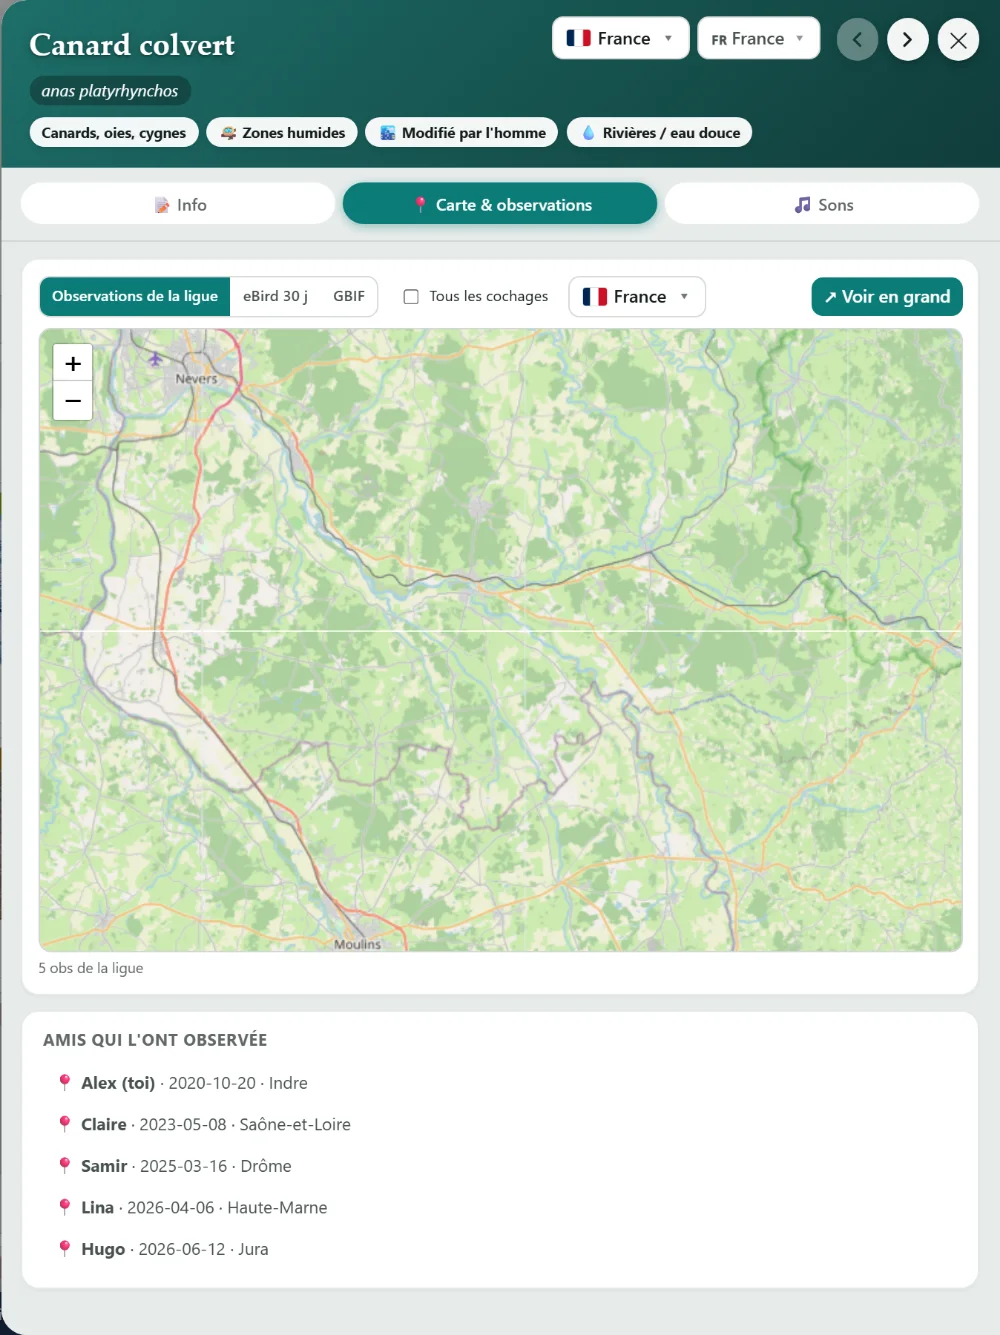
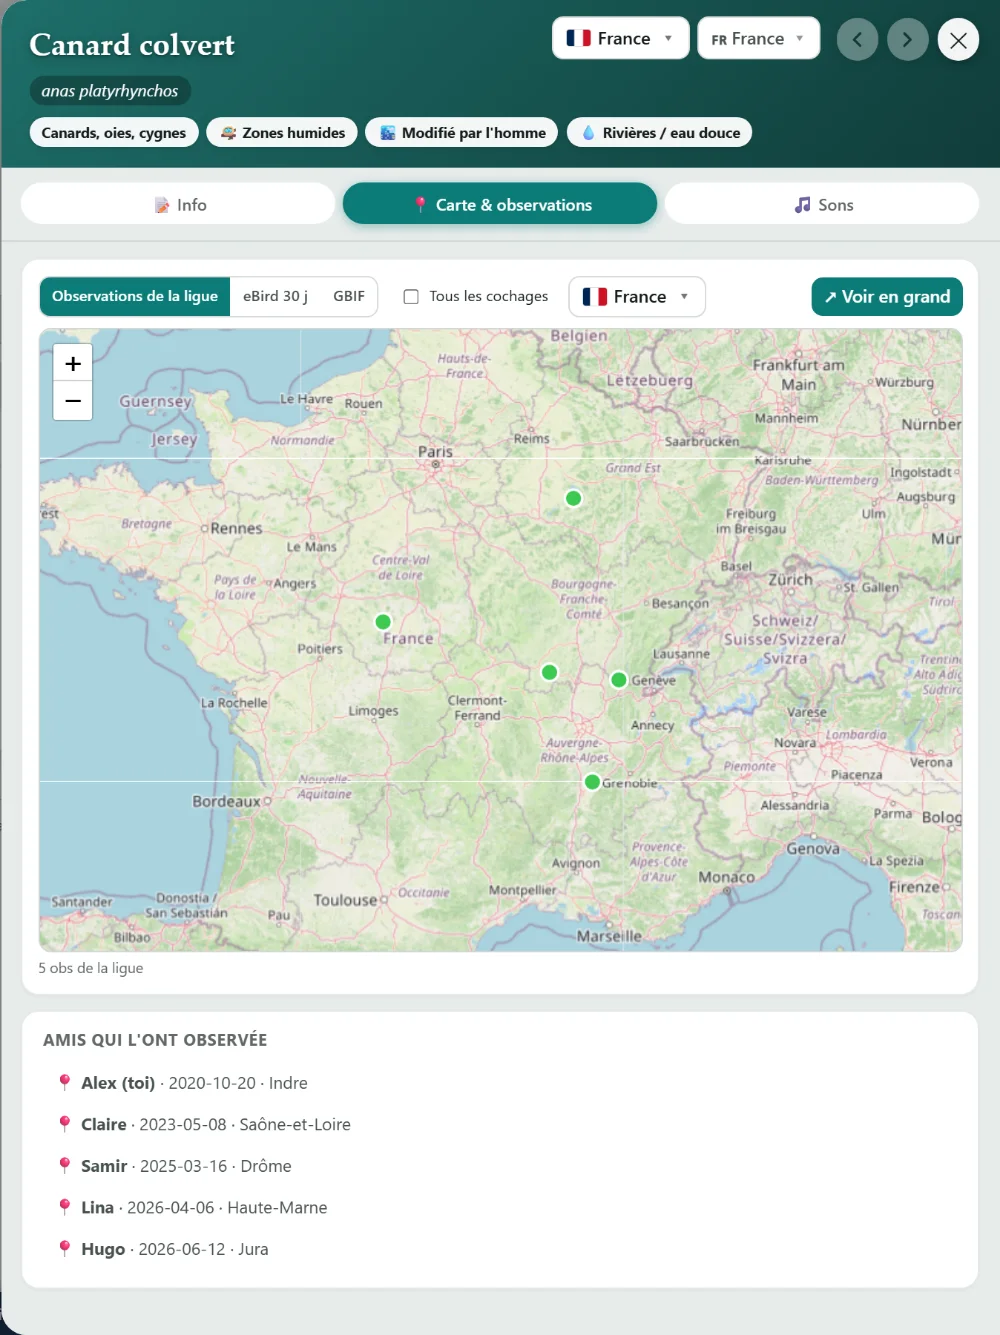
L'Ornitheque : classement et trophees retires, fil et tchat en petit, carte de fiche refaite
La carte de la fiche etait mal centree et vide (creee pendant que l'onglet etait cache) :
recapturee apres recalage, mode observations de la ligue, cinq points.

diff --git a/ornitheque.html b/ornitheque.html
@@ -121,7 +121,7 @@
       </div>
     </div>
 
-    <div class="plates--pair">
+    <div class="plates--pair plates--petit">
       <figure class="plate">
         <a href="projet-ornitheque-fil.webp" target="_blank" rel="noopener"><img width="884" height="1160" loading="lazy" src="projet-ornitheque-fil.webp" alt="Le fil des observations du groupe"></a>
         <figcaption>Le fil des observations du groupe.<br><a class="zoom" href="projet-ornitheque-fil.webp" target="_blank" rel="noopener" aria-label="Pleine résolution, nouvel onglet : Le fil des observations du groupe">Pleine résolution ↗</a></figcaption>
@@ -129,24 +129,6 @@
       <figure class="plate">
         <a href="projet-ornitheque-tchat.webp" target="_blank" rel="noopener"><img width="884" height="1135" loading="lazy" src="projet-ornitheque-tchat.webp" alt="Le tchat du groupe, une sortie proposée"></a>
         <figcaption>Le tchat, ici pour proposer une sortie. Messages de la démonstration, inventés.<br><a class="zoom" href="projet-ornitheque-tchat.webp" target="_blank" rel="noopener" aria-label="Pleine résolution, nouvel onglet : Le tchat du groupe, une sortie proposée">Pleine résolution ↗</a></figcaption>
-      </figure>
-    </div>
-
-    <div class="releve">
-      <div>
-        <p class="releve__k">Un petit enjeu en plus</p>
-        <p class="releve__v">Un classement compare les listes du groupe de trois façons, dont le nombre d’espèces et leur rareté, et des trophées marquent les étapes. C’est un plus, pas le but principal du site.</p>
-      </div>
-    </div>
-
-    <div class="plates--pair">
-      <figure class="plate">
-        <a href="projet-ornitheque-classement.webp" target="_blank" rel="noopener"><img width="1600" height="1048" loading="lazy" src="projet-ornitheque-classement.webp" alt="Classement du groupe et tableau Qui a vu quoi"></a>
-        <figcaption>Le classement, et dessous «&nbsp;Qui a vu quoi&nbsp;», espèce par espèce. Joueurs de la démonstration, inventés.<br><a class="zoom" href="projet-ornitheque-classement.webp" target="_blank" rel="noopener" aria-label="Pleine résolution, nouvel onglet : Classement du groupe et tableau Qui a vu quoi">Pleine résolution ↗</a></figcaption>
-      </figure>
-      <figure class="plate">
-        <a href="projet-ornitheque-trophees.webp" target="_blank" rel="noopener"><img width="1200" height="562" loading="lazy" src="projet-ornitheque-trophees.webp" alt="Page des trophées"></a>
-        <figcaption>Les trophées, gagnés selon les espèces vues.<br><a class="zoom" href="projet-ornitheque-trophees.webp" target="_blank" rel="noopener" aria-label="Pleine résolution, nouvel onglet : Page des trophées">Pleine résolution ↗</a></figcaption>
       </figure>
     </div>
 
@@ -178,7 +160,7 @@
       </figure>
       <figure class="plate">
         <a href="projet-ornitheque-fiche-carte.webp" target="_blank" rel="noopener"><img width="1000" height="1335" loading="lazy" src="projet-ornitheque-fiche-carte.webp" alt="Fiche espèce, onglet Carte et observations"></a>
-        <figcaption>Dans la fiche, les observations d’une espèce&nbsp;: celles de la ligue, celles d’eBird sur trente jours, celles de GBIF.<br><a class="zoom" href="projet-ornitheque-fiche-carte.webp" target="_blank" rel="noopener" aria-label="Pleine résolution, nouvel onglet : Fiche espèce, onglet Carte et observations">Pleine résolution ↗</a></figcaption>
+        <figcaption>Dans la fiche, où les membres du groupe ont vu l’espèce, avec la liste en dessous. Observations de la démonstration, inventées.<br><a class="zoom" href="projet-ornitheque-fiche-carte.webp" target="_blank" rel="noopener" aria-label="Pleine résolution, nouvel onglet : Fiche espèce, onglet Carte et observations">Pleine résolution ↗</a></figcaption>
       </figure>
     </div>
 

diff --git a/style.css b/style.css
@@ -350,6 +350,7 @@ img{display:block;max-width:100%;height:auto;}
 
 .plates--pair{display:grid;grid-template-columns:1fr 1fr;gap:26px 24px;margin:26px 0 0;}
 .plates--pair .plate{margin:0;}
+.plates--petit{max-width:560px;}
 
 /* Une planche a cote de sa legende. Pour une figure haute comme la matrice de
    correlation, la demi-largeur la fait tenir dans un ecran d'un seul coup, et
